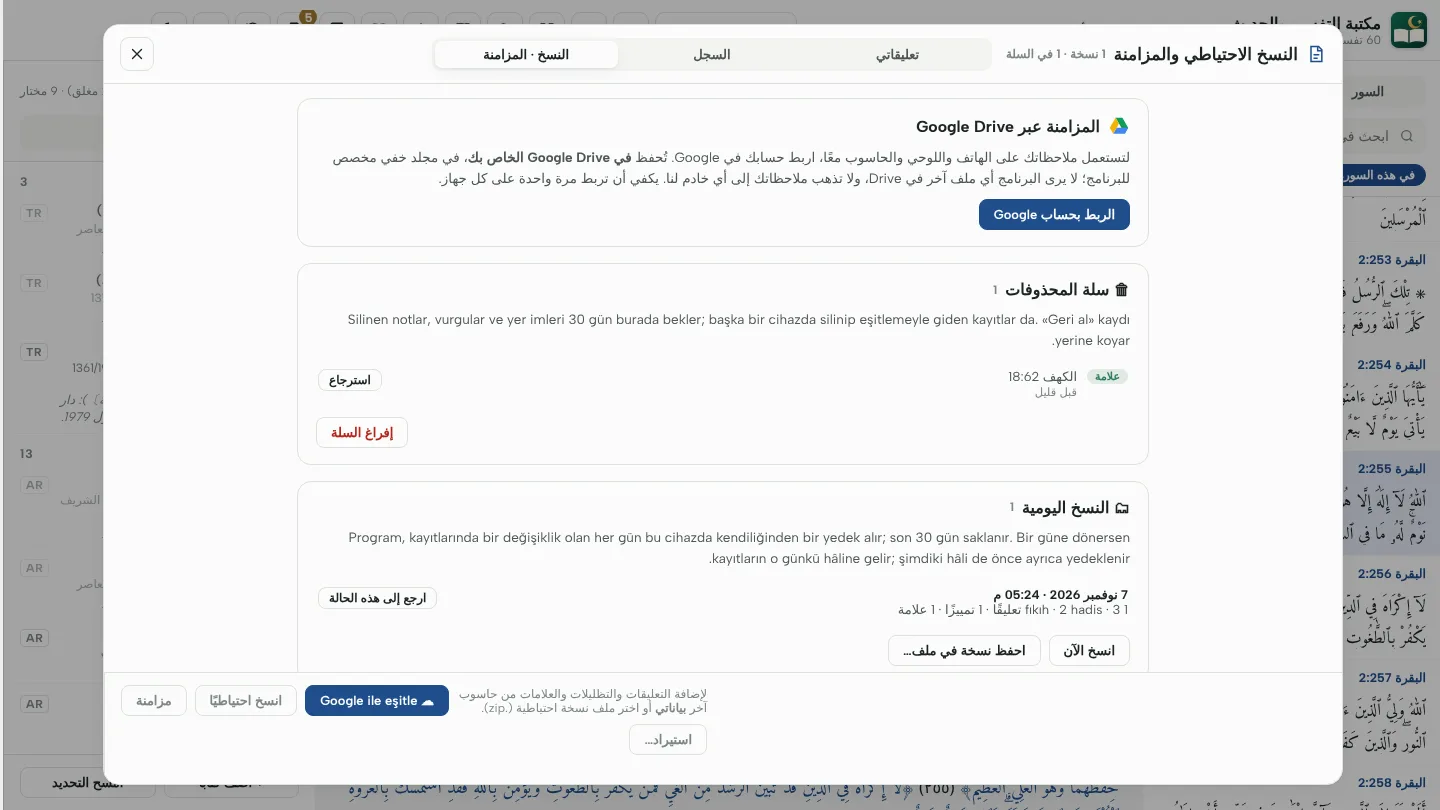
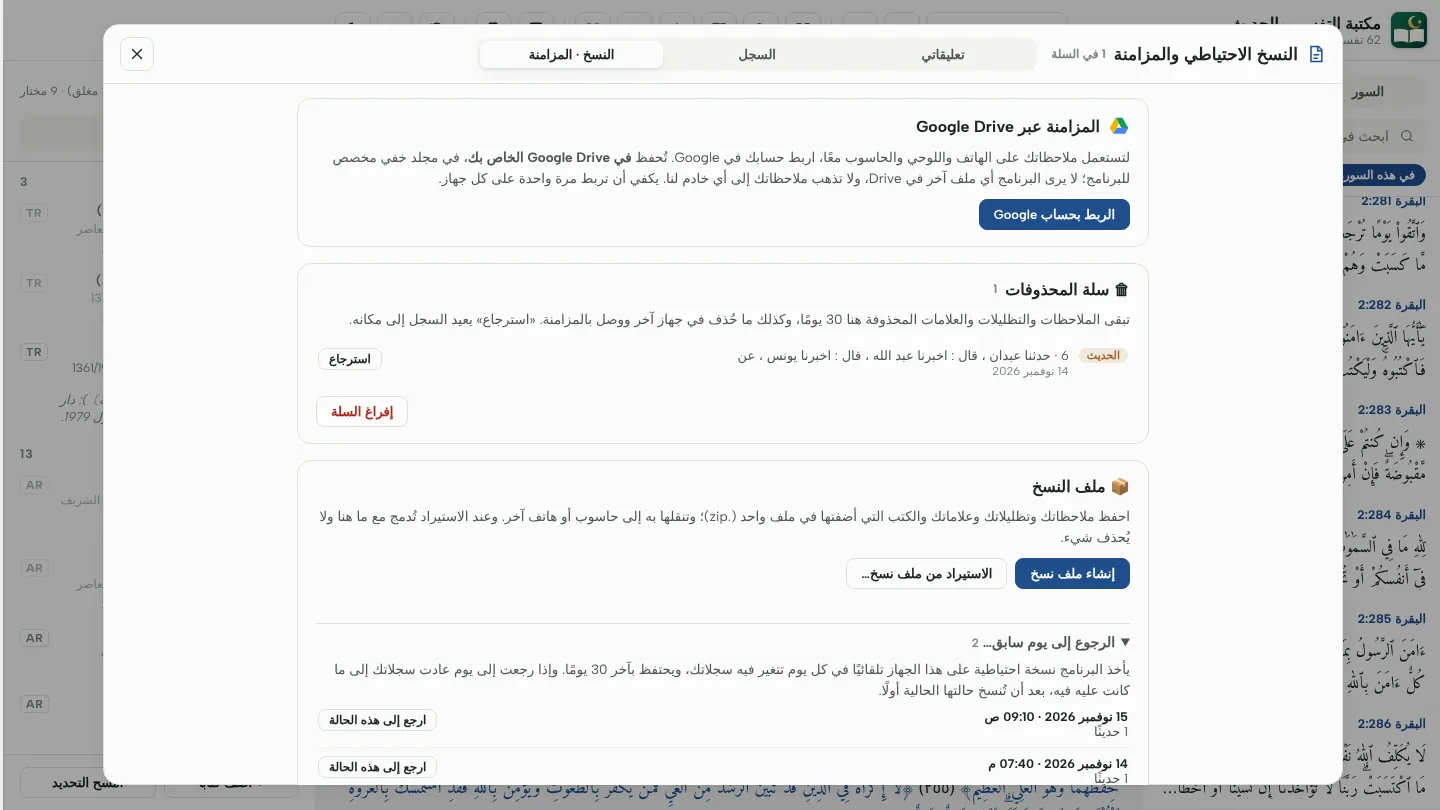
Tanıtım: eşitleme ve yedek görselleri güncel ekranla (TR/EN/AR); gizlilikte Wi-Fi eşitlemesi yerine yedek dosyası
Claude-Session: https://claude.ai/code/session_01JYirWrT3p24DEGwB4VLCu4

diff --git a/docs/ar/index.html b/docs/ar/index.html
@@ -275,7 +275,7 @@ footer a { color: inherit; }
   <div class="feat"><div class="shot"><img src="../img/ar/lugat.webp" width="1440" height="810" loading="lazy" alt="المس الكلمة"></div><div><span class="kick">المعجم</span><h3>المس الكلمة</h3><p class="sub" style="margin:0">النهاية، لسان العرب، تاج العروس، القاموس… ثمانية معاجم قديمة، مع تمييز الكلمات الغريبة.</p><ul><li><b>مشارق الأنوار</b> و <b>الفائق</b> لغريب الحديث</li></ul></div></div>
   <div class="feat rev"><div class="shot"><img src="../img/ar/arama.webp" width="1440" height="810" loading="lazy" alt="البحث في التفاسير والترجمات"></div><div><span class="kick">البحث</span><h3>مربع واحد: التفسير والحديث والفقه</h3><p class="sub" style="margin:0">كلمة عربية أو إنجليزية أو تركية، في كل التفاسير والترجمات والأحاديث وكتب الفقه معًا؛ وتظهر الأعداد على تبويبات التفسير · الحديث · الفقه.</p><ul><li><b>العبارة بعينها</b> أو كل الكلمات؛ مع التصفية بحسب الكتاب</li><li>المس نتيجة في الحديث أو الفقه لتُفتح في موضعها</li><li>لا يُعتد بالتشكيل والعلامات في البحث</li></ul></div></div>
   <div class="feat"><div class="shot"><img src="../img/kart.webp" width="720" height="720" loading="lazy" alt="بطاقة الآية والحديث"></div><div><span class="kick">المشاركة</span><h3>بطاقة الآية والحديث</h3><p class="sub" style="margin:0">حوِّل آية مع ترجمتها، أو حديثًا مع كتابه ورقمه، إلى صورة أنيقة.</p><ul><li><b>مربع، عمودي، قصة</b> أشكال؛ وأربعة ألوان</li><li>في الهاتف إلى واتساب وإنستغرام؛ وفي الحاسوب حفظ أو نسخ</li></ul></div></div>
-  <div class="feat rev"><div class="shot"><img src="../img/esitle.webp" width="1440" height="810" loading="lazy" alt="الهاتف والحاسوب معًا"></div><div><span class="kick">المزامنة</span><h3>الهاتف واللوحي والحاسوب معًا</h3><p class="sub" style="margin:0">تبقى الملاحظات والعلامات والتظليلات والختمة والحفظ واحدة على أجهزتك كلها عبر Google Drive الخاص بك.</p><ul><li>لا يُرسل شيء إلى خادم لنا</li><li>نسخ احتياطي يومي تلقائي وسلة محذوفات و<b>نسخة</b> في ملف واحد</li></ul></div></div>
+  <div class="feat rev"><div class="shot"><img src="../img/ar/esitle.webp" width="1440" height="810" loading="lazy" alt="الهاتف والحاسوب معًا"></div><div><span class="kick">المزامنة</span><h3>الهاتف واللوحي والحاسوب معًا</h3><p class="sub" style="margin:0">تبقى الملاحظات والعلامات والتظليلات والختمة والحفظ واحدة على أجهزتك كلها عبر Google Drive الخاص بك.</p><ul><li>لا يُرسل شيء إلى خادم لنا</li><li>نسخ احتياطي يومي تلقائي وسلة محذوفات و<b>نسخة</b> في ملف واحد</li></ul></div></div>
 </div></section>
 
 <section id="diller" class="band"><div class="wrap">

diff --git a/docs/ar/gizlilik.html b/docs/ar/gizlilik.html
@@ -39,7 +39,7 @@ footer { border-top: 1px solid var(--line); margin-top: 48px; padding: 24px 0 40
 <header><div class="wrap" style="display:flex;justify-content:space-between;align-items:center;gap:12px"><a href="./">← مكتبة التفسير والحديث</a><span class="langsw"><a href="../gizlilik.html" hreflang="tr">TR</a><a href="../en/gizlilik.html">EN</a><a href="gizlilik.html" lang="ar" aria-current="page">عربي</a></span></div></header>
 <main class="wrap">
 <h1>سياسة الخصوصية</h1>
-<p class="muted">تاريخ السريان: 7 نوفمبر 2026 · يسري هذا النص على إصدارات Windows وMac وLinux وAndroid (ومنها Google Play) وعلى هذا الموقع.</p>
+<p class="muted">تاريخ السريان: 19 نوفمبر 2026 · يسري هذا النص على إصدارات Windows وMac وLinux وAndroid (ومنها Google Play) وعلى هذا الموقع.</p>
 
 <div class="box">
 <b>باختصار:</b> لا تطلب مكتبة التفسير والحديث أي حساب، ولا تجمع اسمك ولا بريدك ولا جهات اتصالك ولا موقعك ولا معرِّف جهازك. تبقى تعليقاتك وتظليلاتك وسجلات حفظك وتسجيلاتك الصوتية في جهازك فقط. وباستثناء إحصاءات <b>مجهولة الهوية</b> تبيِّن أي أقسام البرنامج تُستعمل وكم مدة، لا يُرسل شيء.
@@ -90,7 +90,7 @@ footer { border-top: 1px solid var(--line); margin-top: 48px; padding: 24px 0 40
 <p>عند مشاركة بطاقة آية تُحفظ الصورة في معرض جهازك (Pictures/Tefsir ve Hadis) ولا تُعطى إلا للتطبيق الذي تختاره.</p>
 
 <h2>6. المزامنة بين الأجهزة</h2>
-<p>عند مزامنة تعليقاتك بين جهازين لا يخرج شيء إلى الإنترنت: تُنقل مباشرة بين جهازين على شبكة Wi-Fi نفسها برمز يُستعمل مرة واحدة يظهر على الشاشة.</p>
+<p><b>بملف النسخ:</b> يمكنك حفظ جميع سجلاتك في ملف نسخ واحد (.zip) ونقله بنفسك إلى جهاز آخر. يُحفظ الملف في المكان الذي تختاره فقط، ولا يُرسل إلينا.</p>
 <p><b>عبر Google Drive (اختياري):</b> إذا اخترت «الربط بحساب Google» حُفظت ملاحظاتك وتظليلاتك وعلاماتك وملاحظات الحديث والفقه وسجلات الحفظ والمتابعة والختمة في ملف واحد في <b>Google Drive الخاص بك</b>، داخل مجلد «بيانات التطبيق» الخفي الذي يخصصه Google للتطبيقات، وزُومنت بين أجهزتك المرتبطة بالحساب نفسه.</p>
 <ul>
 <li>لا يطلب التطبيق إلا إذن <code>drive.appdata</code>: فلا يرى أي ملف آخر في Drive ولا يقرؤه ولا يغيّره.</li>

diff --git a/docs/en/index.html b/docs/en/index.html
@@ -275,7 +275,7 @@ footer a { color: inherit; }
   <div class="feat"><div class="shot"><img src="../img/en/lugat.webp" width="1440" height="810" loading="lazy" alt="Tap a word"></div><div><span class="kick">Dictionary</span><h3>Tap a word</h3><p class="sub" style="margin:0">an-Nihāya, Lisān al-‘Arab, Tāj al-‘Arūs, al-Qāmūs… eight classical dictionaries; rare words marked.</p><ul><li><b>Mashāriq al-Anwār</b> and <b>al-Fā’iq</b> for the rare words of hadith</li></ul></div></div>
   <div class="feat rev"><div class="shot"><img src="../img/en/arama.webp" width="1440" height="810" loading="lazy" alt="Search the tafsirs and translations"></div><div><span class="kick">Search</span><h3>One box: tafsir, hadith, fiqh</h3><p class="sub" style="margin:0">An Arabic, English or Turkish word, across all tafsirs, translations, hadiths and fiqh books at once; the counts show on the Tafsir · Hadith · Fiqh tabs.</p><ul><li><b>Exact phrase</b> or all words; filter by work and book</li><li>Tap a hadith or fiqh result to open it right there</li><li>Vowel marks and diacritics are ignored in the search</li></ul></div></div>
   <div class="feat"><div class="shot"><img src="../img/kart.webp" width="720" height="720" loading="lazy" alt="Verse and hadith card"></div><div><span class="kick">Share</span><h3>Verse and hadith card</h3><p class="sub" style="margin:0">Turn a verse with its translation, or a hadith with its book and number, into an elegant image.</p><ul><li><b>Square, portrait, story</b> formats; four colours</li><li>On the phone to WhatsApp and Instagram; on the computer save or copy</li></ul></div></div>
-  <div class="feat rev"><div class="shot"><img src="../img/esitle.webp" width="1440" height="810" loading="lazy" alt="Phone and computer together"></div><div><span class="kick">Sync</span><h3>Phone, tablet and computer together</h3><p class="sub" style="margin:0">Notes, bookmarks, highlights, khatm and memorisation stay the same on all your devices through your own Google Drive.</p><ul><li>Nothing is sent to a server of ours</li><li>Daily automatic backup, a wastebasket and a one-file <b>backup</b></li></ul></div></div>
+  <div class="feat rev"><div class="shot"><img src="../img/en/esitle.webp" width="1440" height="810" loading="lazy" alt="Phone and computer together"></div><div><span class="kick">Sync</span><h3>Phone, tablet and computer together</h3><p class="sub" style="margin:0">Notes, bookmarks, highlights, khatm and memorisation stay the same on all your devices through your own Google Drive.</p><ul><li>Nothing is sent to a server of ours</li><li>Daily automatic backup, a wastebasket and a one-file <b>backup</b></li></ul></div></div>
 </div></section>
 
 <section id="diller" class="band"><div class="wrap">

diff --git a/docs/gizlilik.html b/docs/gizlilik.html
@@ -39,7 +39,7 @@ footer { border-top: 1px solid var(--line); margin-top: 48px; padding: 24px 0 40
 <header><div class="wrap" style="display:flex;justify-content:space-between;align-items:center;gap:12px"><a href="./">← Tefsir &amp; Hadis Kütüphanesi</a><span class="langsw"><a href="gizlilik.html" aria-current="page">TR</a><a href="en/gizlilik.html">EN</a><a href="ar/gizlilik.html" lang="ar">عربي</a></span></div></header>
 <main class="wrap">
 <h1>Gizlilik Politikası</h1>
-<p class="muted">Yürürlük tarihi: 7 Kasım 2026 · Bu metin Windows, Mac, Linux ve Android (Google Play dahil) sürümleri ile bu site için geçerlidir.</p>
+<p class="muted">Yürürlük tarihi: 19 Kasım 2026 · Bu metin Windows, Mac, Linux ve Android (Google Play dahil) sürümleri ile bu site için geçerlidir.</p>
 
 <div class="box">
 <b>Kısaca:</b> Tefsir &amp; Hadis Kütüphanesi hesap istemez; adını, e-postanı, rehberini, konumunu ya da cihaz kimliğini toplamaz. Notların, vurguların, ezber kayıtların ve ses kayıtların senin cihazında durur; istersen <b>kendi Google Drive'ında</b> eşitlenir (bizim bir sunucumuza hiç gitmez). Programın hangi bölümlerinin ne kadar kullanıldığını gösteren <b>isimsiz</b> sayımlar dışında hiçbir bilgi gönderilmez.
@@ -90,7 +90,7 @@ footer { border-top: 1px solid var(--line); margin-top: 48px; padding: 24px 0 40
 <p>Âyet kartı paylaştığında kart görseli cihazının galerisine (Resimler/Tefsir ve Hadis) kaydedilir ve yalnız senin seçtiğin uygulamaya verilir.</p>
 
 <h2>6. Cihazlar arası eşitleme</h2>
-<p><b>Wi-Fi ile:</b> Notlarını iki cihaz arasında kodla eşitlediğinde bilgiler internete çıkmaz: yalnız aynı Wi-Fi ağındaki iki cihaz arasında, ekranda gösterilen tek kullanımlık kodla doğrudan aktarılır.</p>
+<p><b>Yedek dosyası ile:</b> Bütün kayıtlarını tek bir yedek dosyasına (.zip) kaydedip başka bir cihaza kendin taşıyabilirsin. Dosya yalnız senin seçtiğin yere kaydedilir; bize gönderilmez.</p>
 <p><b>Google Drive ile (isteğe bağlı):</b> «Google ile bağlan» dersen notların, vurguların, yer imlerin, hadis ve fıkıh notların, ezber, okuma takibi ve hatim kayıtların <b>senin kendi Google Drive'ında</b>, Google'ın uygulamalara ayırdığı gizli «uygulama verileri» klasöründe tek bir dosya olarak saklanır ve aynı hesapla bağlanan cihazlarında eşitlenir.</p>
 <ul>
 <li>Uygulama yalnız <code>drive.appdata</code> iznini ister: Drive'ındaki başka hiçbir dosyayı göremez, okuyamaz, değiştiremez.</li>

diff --git a/docs/en/gizlilik.html b/docs/en/gizlilik.html
@@ -39,7 +39,7 @@ footer { border-top: 1px solid var(--line); margin-top: 48px; padding: 24px 0 40
 <header><div class="wrap" style="display:flex;justify-content:space-between;align-items:center;gap:12px"><a href="./">← Tafsir &amp; Hadith Library</a><span class="langsw"><a href="../gizlilik.html" hreflang="tr">TR</a><a href="gizlilik.html" aria-current="page">EN</a><a href="../ar/gizlilik.html" lang="ar">عربي</a></span></div></header>
 <main class="wrap">
 <h1>Privacy Policy</h1>
-<p class="muted">Effective date: 7 November 2026 · This text applies to the Windows, Mac, Linux and Android (including Google Play) versions and to this website.</p>
+<p class="muted">Effective date: 19 November 2026 · This text applies to the Windows, Mac, Linux and Android (including Google Play) versions and to this website.</p>
 
 <div class="box">
 <b>In short:</b> The Tafsir &amp; Hadith Library asks for no account; it does not collect your name, e-mail, contacts, location or device identifier. Your notes, highlights, memorization records and recordings stay on your device only. Apart from <b>anonymous</b> counts showing which parts of the program are used and for how long, nothing is sent.
@@ -90,7 +90,7 @@ footer { border-top: 1px solid var(--line); margin-top: 48px; padding: 24px 0 40
 <p>When you share a verse card, the image is saved to your device's gallery (Pictures/Tefsir ve Hadis) and given only to the app you choose.</p>
 
 <h2>6. Sync between devices</h2>
-<p>When you sync your notes between two devices, nothing goes to the internet: they are transferred directly between two devices on the same Wi-Fi network, with a one-time code shown on screen.</p>
+<p><b>With a backup file:</b> you can save all your records in one backup file (.zip) and carry it to another device yourself. The file is saved only where you choose; it is not sent to us.</p>
 <p><b>With Google Drive (optional):</b> if you choose «Connect with Google», your notes, highlights, bookmarks, hadith and fiqh notes, memorisation, recitation-tracking and khatm records are kept as one file in <b>your own Google Drive</b>, in the hidden «application data» folder Google sets aside for apps, and synced across the devices you connect with the same account.</p>
 <ul>
 <li>The app asks only for the <code>drive.appdata</code> permission: it cannot see, read or change any other file in your Drive.</li>
